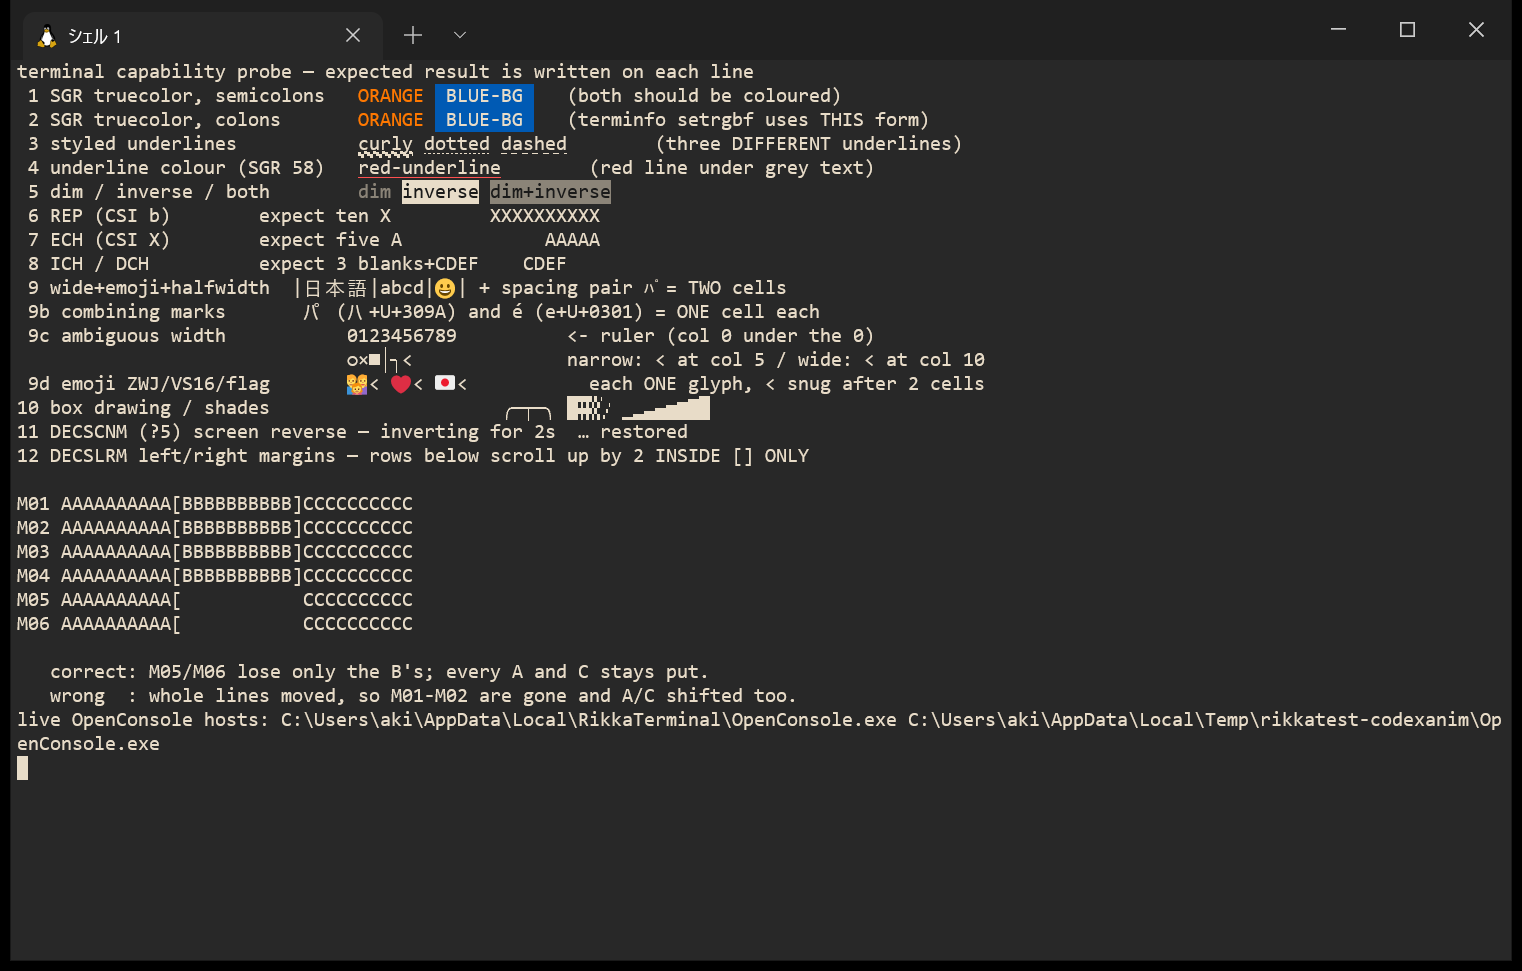
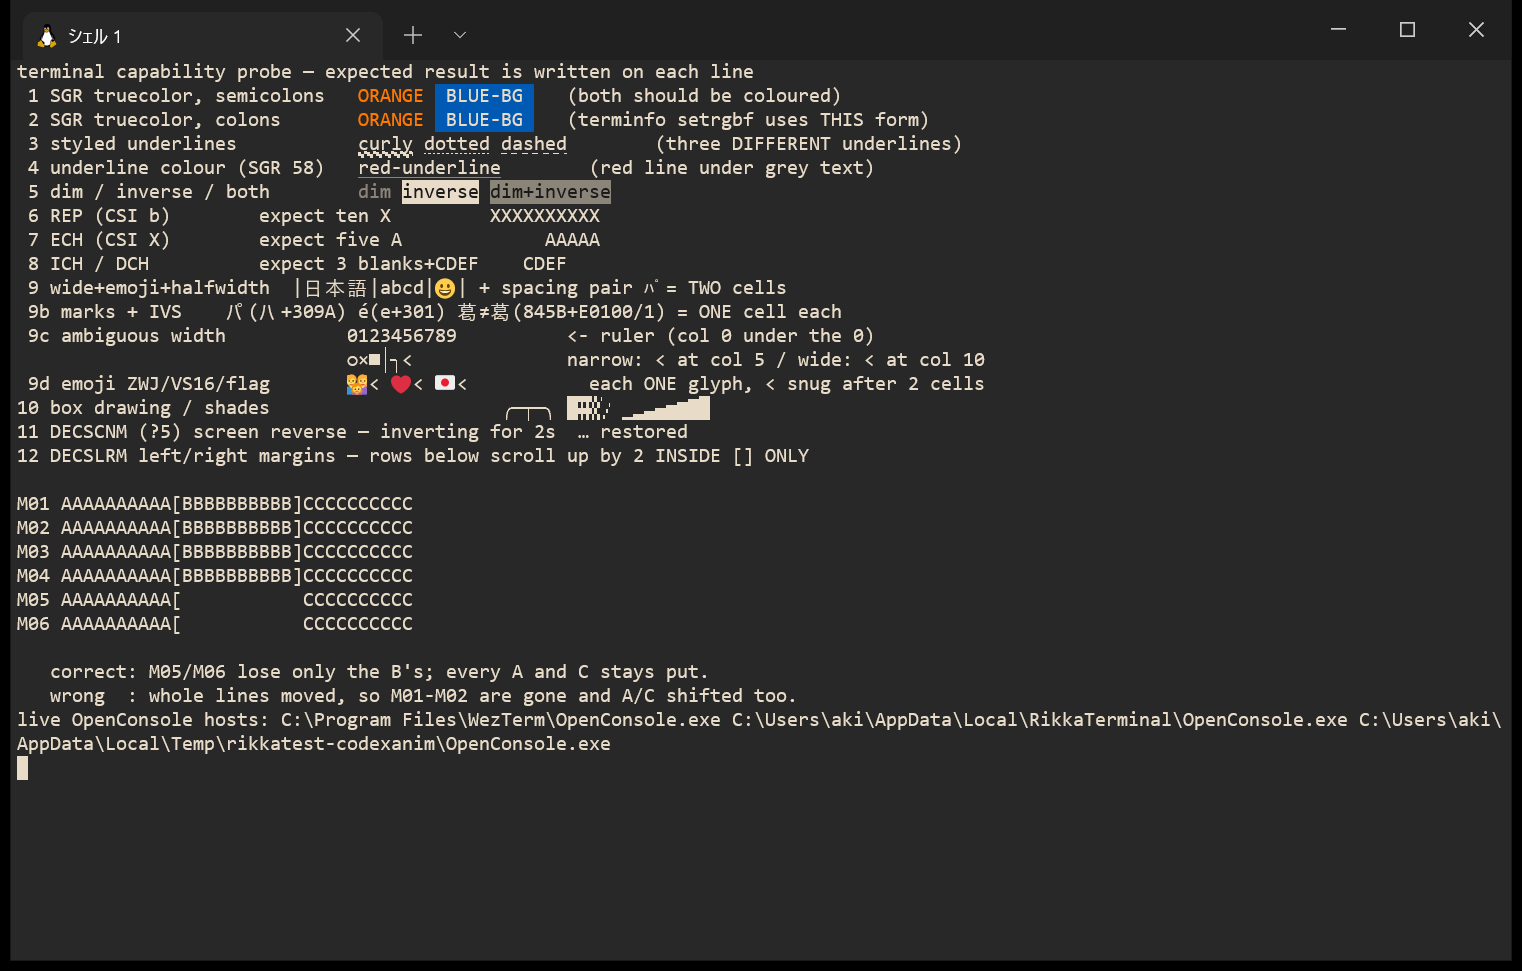
feat(compat): row 9b carries an IVS pair — width is the pass condition
葛+U+E0100 against 葛+U+E0101, adjacent with ≠ between. Ideographic
variation selectors are zero-width trailers like the other marks; the
terminal failure that matters is a selector leaking into its own cell and
shifting the line. The vendored engine pins that with a unit test
(ivs_selector_stacks_on_wide_base — selector stacks on the wide base, no
promotion, next char lands at column 2), and re-shot captures show both
Windows Terminal and RikkaTerminal keeping each 葛 to one wide cell,
pixel counts unchanged (143/182).

Neither renders distinct variant glyphs with the default font stack —
Format-14 cmap support is the font's property, not the terminal's — so the
table row records "width ok, variants not differentiated" and the README
says why the width is the pass condition.

Assisted-by: multi-agent-shogun-aki-tweak

diff --git a/crates/alacritty_terminal/src/term/mod.rs b/crates/alacritty_terminal/src/term/mod.rs
@@ -2988,6 +2988,24 @@ mod tests {
     }
 
     #[test]
+    fn ivs_selector_stacks_on_wide_base() {
+        let size = TermSize::new(20, 2);
+        let mut term = Term::new(Config::default(), &size, VoidListener);
+
+        // 葛 + U+E0100 (ideographic variation selector) — the selector is
+        // zero-width and stacks; the base is already wide, so no promotion.
+        for c in "\u{845B}\u{E0100}X".chars() {
+            term.input(c);
+        }
+
+        let cell = &term.grid[Line(0)][Column(0)];
+        assert_eq!(cell.c, '\u{845B}');
+        assert!(cell.flags.contains(Flags::WIDE_CHAR));
+        assert_eq!(cell.zerowidth().unwrap(), &['\u{E0100}'][..]);
+        assert_eq!(term.grid[Line(0)][Column(2)].c, 'X');
+    }
+
+    #[test]
     fn zwj_between_letters_does_not_merge_cells() {
         let size = TermSize::new(20, 2);
         let mut term = Term::new(Config::default(), &size, VoidListener);

diff --git a/docs/compat/README.md b/docs/compat/README.md
@@ -143,6 +143,7 @@ heart is emoji-presentation, the flag is drawn. The full glyph verdicts
 | 8 | ICH / DCH | yes | yes | yes |
 | 9 | Wide chars, half-width pair `ﾊ`+`ﾟ`, emoji | yes (ring small and high) | side by side | side by side |
 | 9b | Combining marks (`ハ`+U+309A → パ, `e`+U+0301 → é) | yes | yes | yes |
+| 9b | IVS (`葛`+U+E0100 / U+E0101) | width ok, variants not differentiated | *not re-run* | width ok, variants not differentiated |
 | 9c | Ambiguous width (`○×■│┐`) | narrow | narrow | narrow |
 | 9d | Emoji ZWJ family | yes (one glyph, 2 cells) | yes | yes (fixed same day — see below) |
 | 9d | Emoji VS16 (`❤`+FE0F) | yes | yes | yes |
@@ -170,6 +171,17 @@ now drops true combining marks instead; see the rio aside) — so the pair
 stays in the probe as
 row 9 under an honest name, as a discriminator in its own right rather than
 a stand-in for the combining test it never was.
+
+Row 9b also carries an ideographic variation sequence pair since
+2026-08-12: `葛` + U+E0100 against `葛` + U+E0101, printed adjacent with a
+`≠` between them. IVS selectors are zero-width trailers exactly like the
+other marks, and the failure that matters in a terminal is a selector
+leaking into a cell of its own and shifting the rest of the line — the
+vendored engine pins that with a unit test, and both Windows Terminal and
+RikkaTerminal keep each 葛 to one wide cell on screen. Neither renders
+*distinct* variant glyphs with the default font stack: Format-14 cmap
+support is a property of the font, not the terminal, so the row's pass
+condition is the width, and any visible glyph difference is font bonus.
 
 Rows 9c and 9d judge **advance width**, not glyph shape: each run of glyphs
 is chased by a `<` marker, and the marker lands wherever the cursor ended
